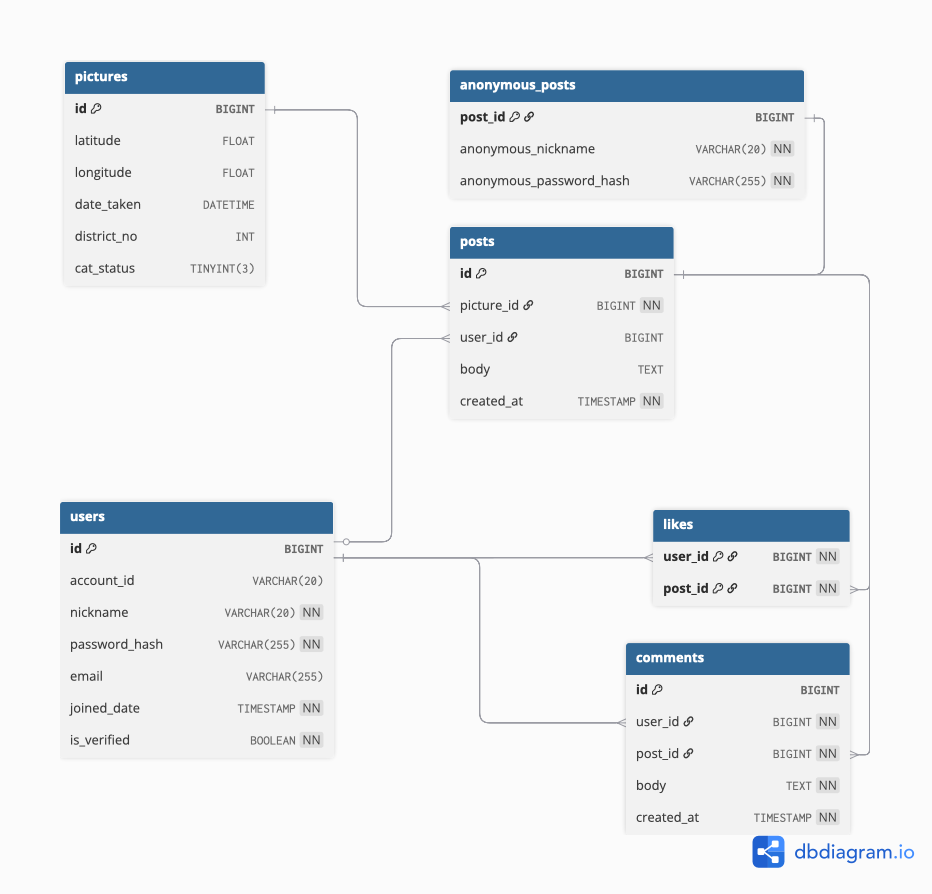
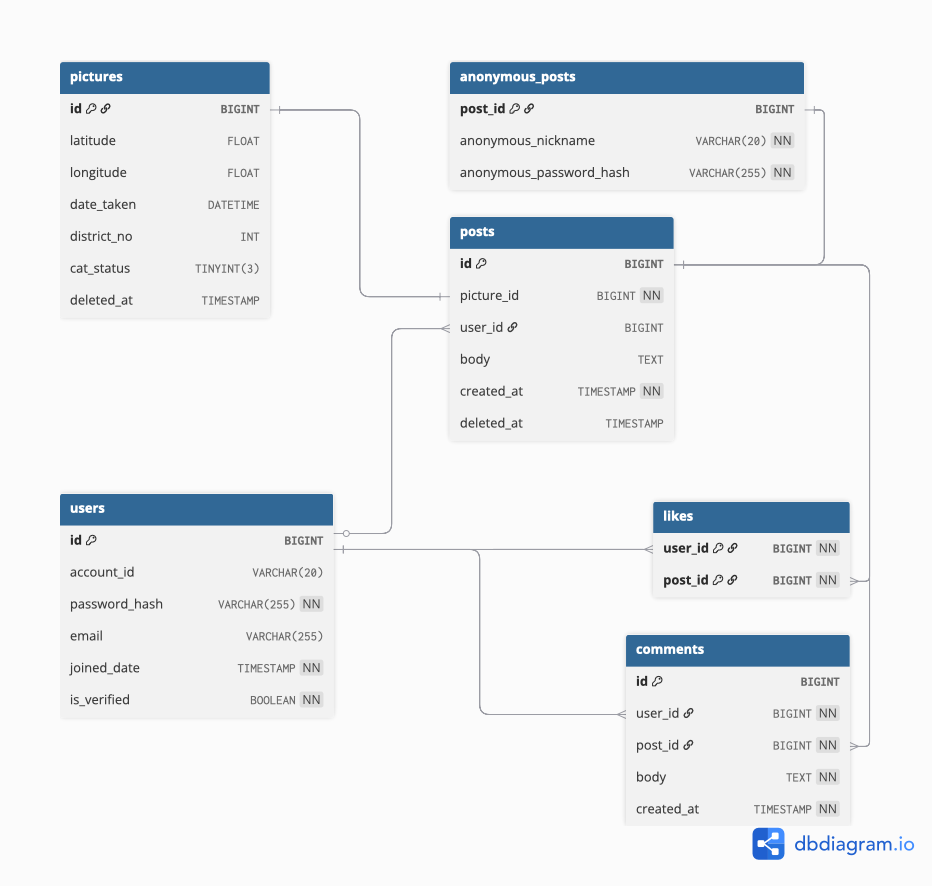
refactor: imagelist refactor, get data from DB

diff --git a/frontend/services/api.ts b/frontend/services/api.ts
@@ -68,13 +68,31 @@ export async function fetchWithAuth(url: string, init: RequestInit = {}): Promis
 }
 
 /**
- * Fetches gallery images from the backend
- * @param maxKeys Maximum number of images to fetch
- * @returns Array of image keys
+ * Post row returned by the gallery/images API (DB-based).
  */
-export async function fetchGalleryImages(maxKeys = 100): Promise<string[]> {
+export interface GalleryPost {
+  id: number
+  picture_id: number
+  user_id: number | null
+  body: string | null
+  created_at: string
+  deleted_at: string | null
+}
+
+/**
+ * Fetches gallery posts from the backend (DB-based).
+ * @param maxKeys Maximum number of posts to fetch
+ * @param offset Number of posts to skip (for pagination)
+ * @returns Array of post objects (id, picture_id, body, created_at, ...)
+ */
+export async function fetchGalleryImages(
+  maxKeys = 100,
+  offset = 0
+): Promise<GalleryPost[]> {
   try {
-    const response = await fetch(`${API_URL}/images?maxKeys=${maxKeys}`)
+    const response = await fetch(
+      `${API_URL}/images?maxKeys=${maxKeys}&offset=${offset}`
+    )
     if (!response.ok) {
       throw new Error("Failed to fetch images")
     }
@@ -86,13 +104,14 @@ export async function fetchGalleryImages(maxKeys = 100): Promise<string[]> {
 }
 
 /**
- * Fetches image URL and metadata by key
- * @param key Image key
- * @returns Object containing image URL and metadata
+ * Fetches presigned image URL by picture id (builds key as k{pictureId}.jpg internally).
+ * @param pictureId Picture id from post.picture_id
+ * @returns Object containing image URL
  */
-export async function fetchImageUrl(key: string): Promise<{ url: string }> {
+export async function fetchImageUrl(pictureId: number): Promise<{ url: string }> {
+  const key = `k${pictureId}.jpg`
   try {
-    const response = await fetch(`${API_URL}/image-url?key=${key}`)
+    const response = await fetch(`${API_URL}/image-url?key=${encodeURIComponent(key)}`)
     if (!response.ok) {
       throw new Error("Failed to fetch image URL")
     }
@@ -379,7 +398,7 @@ export async function fetchUserDetails(): Promise<UserDetails> {
  * @param id Numeric ID
  * @returns Object containing latitude and longitude
  */
-export async function fetchGPSByID(id: String): Promise<{ latitude?: number; longitude?: number }> {
+export async function fetchGPSByID(id: string | number): Promise<{ latitude?: number; longitude?: number }> {
   try {
     const response = await fetch(`${API_URL}/pictures/${id}/gps`);
     if (!response.ok) {

diff --git a/backend/src/controllers/imageController.js b/backend/src/controllers/imageController.js
@@ -1,33 +1,37 @@
+const db = require('../db');
 const s3Service = require('../services/s3Service');
 
 /**
  * @typedef {Object} ListImagesQuery
- * @property {string} [maxKeys] - Maximum number of image keys to retrieve (stringified integer).
+ * @property {string} [maxKeys] - Maximum number of posts to retrieve (stringified integer).
+ * @property {string} [offset] - Number of posts to skip for pagination (stringified integer).
  */
 
 /**
  * @typedef {Object} GetImageUrlQuery
- * @property {string} key - S3 object key to generate a URL for.
+ * @property {string} key - S3 object key to generate a URL for (e.g. k{picture_id}.jpg).
  */
 
 /**
- * Retrieves a list of image object keys stored in S3.
+ * Retrieves a list of posts from the database (id, picture_id, body, created_at, user_id, etc.).
+ * Frontend builds image key as `k{picture_id}.jpg` when requesting presigned URL.
  *
  * Request:
  * - Query: {@link ListImagesQuery}
  *
  * Response:
- * - 200 OK: Array of image keys (string[])
+ * - 200 OK: Array of post rows (id, picture_id, body, created_at, user_id, ...)
  * - On error: empty array []
  *
  * @param {ListImagesQuery} req.query
  * @returns {Promise<void>}
  */
 async function listImages(req, res) {
-  const maxKeys = parseInt(req.query.maxKeys, 10) || 100;
+  const limit = parseInt(req.query.maxKeys, 10) || 100;
+  const offset = parseInt(req.query.offset, 10) || 0;
   try {
-    const imageKeys = await s3Service.listImageKeys(maxKeys);
-    res.json(imageKeys);
+    const posts = await db.fetchPosts(db.pool, limit, offset);
+    res.json(posts);
   } catch (err) {
     console.error('Error listing images:', err);
     res.json([]);

diff --git a/frontend/app/gallery/page.tsx b/frontend/app/gallery/page.tsx
@@ -24,12 +24,12 @@ export default function GalleryPage() {
   const loadImages = async () => {
     setIsLoading(true)
     try {
-      const imageKeys = await fetchGalleryImages(12)
+      const posts = await fetchGalleryImages(12)
       const items = await Promise.all(
-        imageKeys.map(async (key) => {
-          const imageData = await fetchImageUrl(key)
+        posts.map(async (post) => {
+          const imageData = await fetchImageUrl(post.picture_id)
           return {
-            id: key,
+            id: String(post.id),
             src: imageData.url,
           }
         }),
@@ -54,14 +54,14 @@ export default function GalleryPage() {
   const loadMoreImages = async () => {
     const currentCount = galleryItems.length
     try {
-      const imageKeys = await fetchGalleryImages(currentCount + 6)
-      const newKeys = imageKeys.slice(currentCount)
+      const posts = await fetchGalleryImages(currentCount + 6)
+      const newPosts = posts.slice(currentCount)
 
       const newItems = await Promise.all(
-        newKeys.map(async (key) => {
-          const imageData = await fetchImageUrl(key)
+        newPosts.map(async (post) => {
+          const imageData = await fetchImageUrl(post.picture_id)
           return {
-            id: key,
+            id: String(post.id),
             src: imageData.url,
           }
         }),

diff --git a/backend/src/db/posts.js b/backend/src/db/posts.js
@@ -73,7 +73,7 @@ async function fetchAnonymousPostById(pool, postId) {
 /**
  * Deletes a post by its ID.
  *
- * @param {import('mysql2/promise').Pool | import('mysql2/promise').Connection} pool - MySQL pool or connection.
+ * @param {import('mysql2/promise').Pool} pool - MySQL connection pool.
  * @param {number} postId - ID of the post to delete.
  * @returns {Promise<number>} Number of affected rows (1 on success, 0 if nothing was deleted).
  */
@@ -83,11 +83,26 @@ async function deletePost(pool, postId) {
   return result.affectedRows;
 }
 
+/**
+ * Fetches posts from the database.
+ *
+ * @param {import('mysql2/promise').Pool} pool - MySQL connection pool.
+ * @param {number} limit - Number of posts to fetch.
+ * @param {number} offset - Number of posts to skip.
+ * @returns {Promise<Object[]>} Array of post rows.
+ */
+async function fetchPosts(pool, limit = 10, offset = 0) {
+  const query = `SELECT * FROM posts WHERE deleted_at IS NULL ORDER BY created_at DESC LIMIT ? OFFSET ?`;
+  const [result] = await pool.query(query, [limit, offset]);
+  return result;
+}
+
 
 module.exports = {
   insertPostToDb,
   insertAnonymousUserDataToDb,
   fetchPostById,
   fetchAnonymousPostById,
-  deletePost
+  deletePost,
+  fetchPosts
 };

diff --git a/frontend/components/cat-map.tsx b/frontend/components/cat-map.tsx
@@ -79,15 +79,14 @@ export default function CatMap() {
   }, [refreshTrigger])
 
   const loadImages = async (map: any, L: any) => {
-    const imageKeys = await fetchGalleryImages(10)
-    if (!imageKeys) {
+    const posts = await fetchGalleryImages(10)
+    if (!posts.length) {
       return
     }
-    for (const key of imageKeys) {
+    for (const post of posts) {
       try {
-        const data = await fetchImageUrl(key)
-        const numericPart = key.replace(/\D/g, "");
-        const gpsData = await fetchGPSByID(numericPart)
+        const data = await fetchImageUrl(post.picture_id)
+        const gpsData = await fetchGPSByID(post.picture_id)
         const latitude = gpsData.latitude
         const longitude = gpsData.longitude
         if (!latitude || !longitude) { continue }
@@ -111,7 +110,7 @@ export default function CatMap() {
           setCurrentTooltip(null)
         })
       } catch (error) {
-        console.error("Failed to process image key:", key, error)
+        console.error("Failed to process image for picture:", post.picture_id, error)
       }
     }
   }

diff --git a/frontend/app/page.tsx b/frontend/app/page.tsx
@@ -34,10 +34,10 @@ export default function Home() {
     const loadData = async () => {
       setIsLoading(true)
       try {
-        const imageKeys = await fetchGalleryImages(4)
+        const posts = await fetchGalleryImages(4)
         const imageUrls = await Promise.all(
-          imageKeys.map(async (key) => {
-            const imageData = await fetchImageUrl(key)
+          posts.map(async (post) => {
+            const imageData = await fetchImageUrl(post.picture_id)
             return imageData.url
           }),
         )

diff --git a/backend/src/routes/postRoutes.js b/backend/src/routes/postRoutes.js
@@ -6,7 +6,6 @@ const { optionalVerifyToken } = require('../middleware/auth');
 const storage = multer.memoryStorage();
 const receiveImage = multer({ storage, limits: { fileSize: 10 * 1024 * 1024 } }).single('image');
 
-router.get('/:id', postController.getPostById);
 router.post('/', optionalVerifyToken, receiveImage, postController.uploadImage);
 router.delete('/:id', optionalVerifyToken, postController.deletePost);
 
